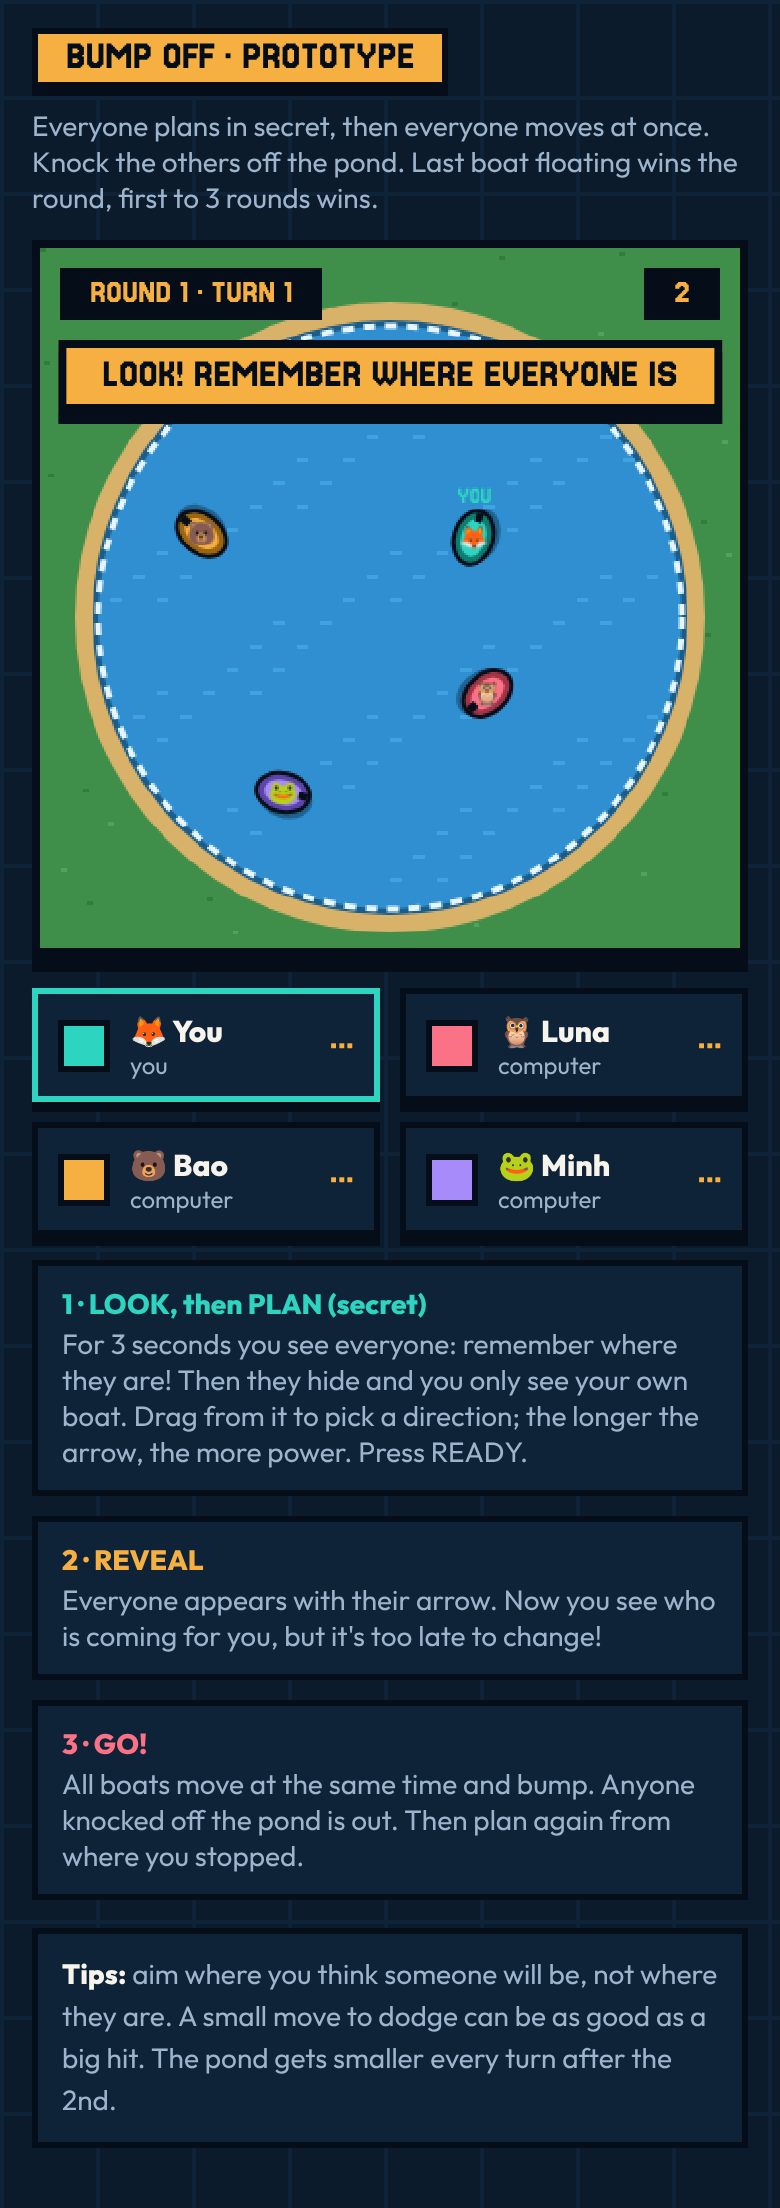
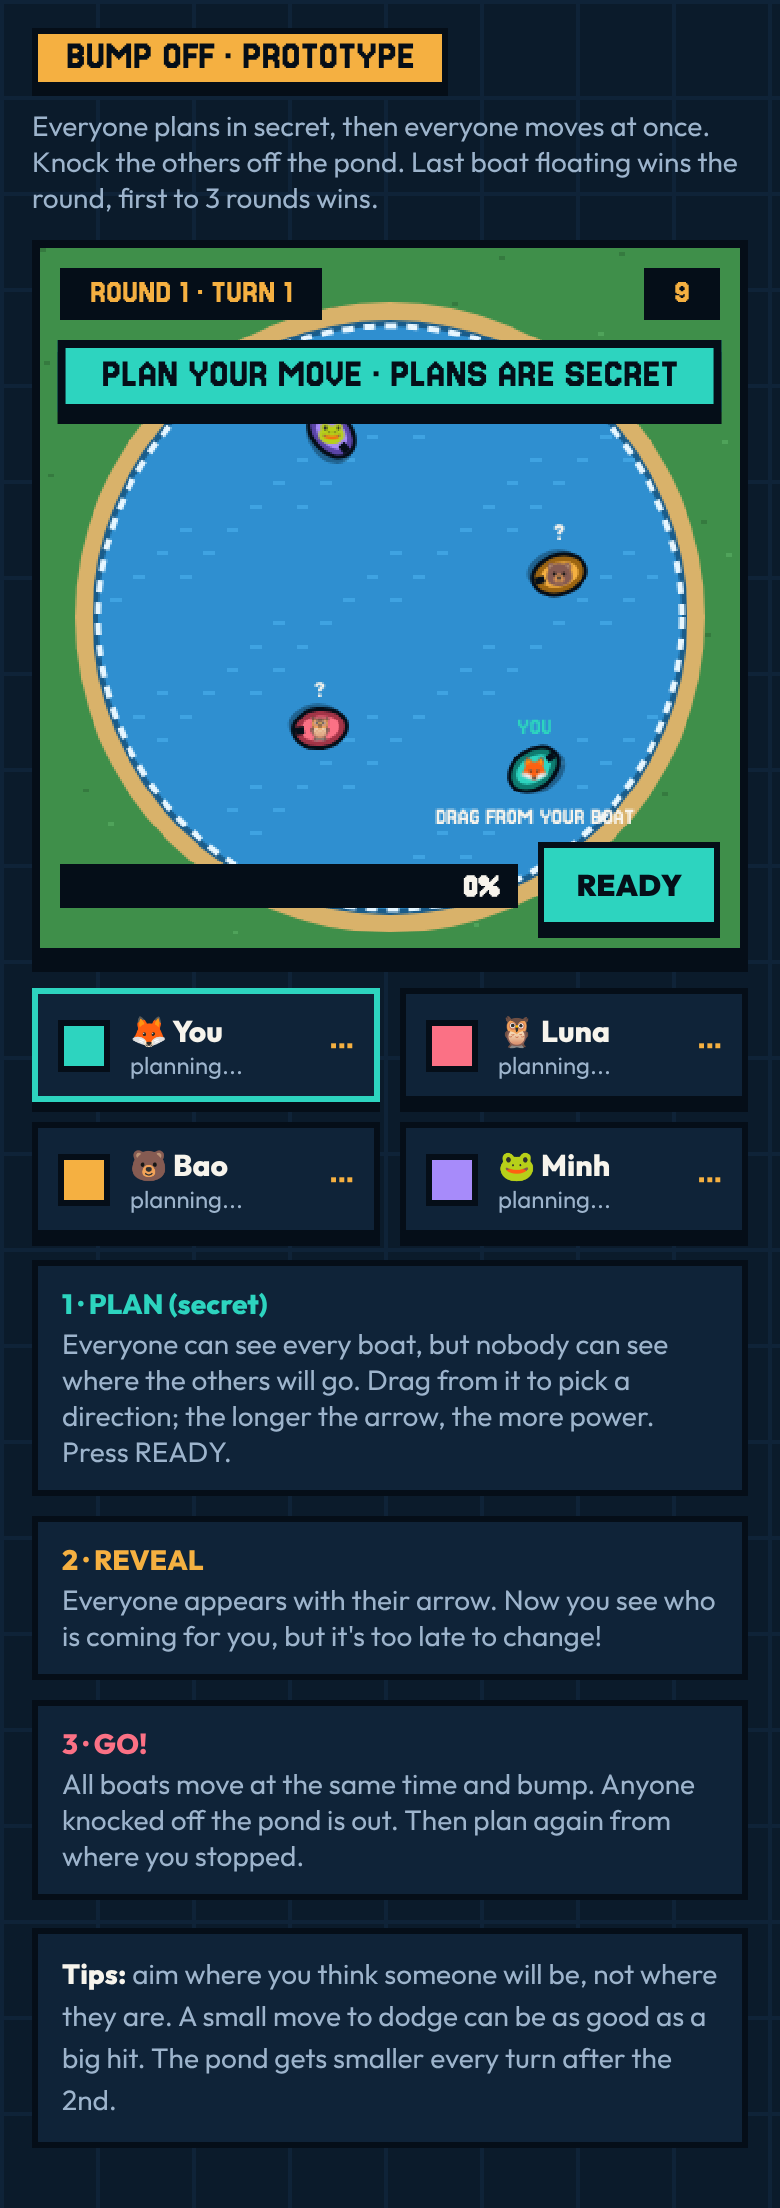
Bump Off prototype: boats always visible, only the plans are secret
Claude-Session: https://claude.ai/code/session_01NYAz1J5wa1KE5GuxFTgbc4

diff --git a/prototypes/round8/bump-off.html b/prototypes/round8/bump-off.html
@@ -57,8 +57,8 @@ canvas.aim { cursor: crosshair; }
     <div class="side" id="side"></div>
   </div>
   <div class="steps">
-    <div class="s1"><b>1 · LOOK, then PLAN (secret)</b>For 3 seconds you see everyone: remember where they are! Then they hide and you only see your own boat. Drag from it to pick a direction; the longer the arrow, the more power. Press READY.</div>
-    <div class="s2"><b>2 · REVEAL</b>Everyone appears with their arrow. Now you see who is coming for you, but it's too late to change!</div>
+    <div class="s1"><b>1 · PLAN (secret)</b>Everyone can see every boat, but nobody can see where the others will go. Drag from it to pick a direction; the longer the arrow, the more power. Press READY.</div>
+    <div class="s2"><b>2 · REVEAL</b>Everyone's arrows appear at once. Now you see who is coming for you, but it's too late to change!</div>
     <div class="s3"><b>3 · GO!</b>All boats move at the same time and bump. Anyone knocked off the pond is out. Then plan again from where you stopped.</div>
   </div>
   <div class="help"><b>Tips:</b> aim where you think someone will be, not where they are. A small move to dodge can be as good as a big hit. The pond gets smaller every turn after the 2nd.</div>
@@ -87,7 +87,7 @@ function newRound() {
     while (tries < 200 && boats.some((b) => Math.hypot(b.x - x, b.y - y) < 60));
     boats.push({ p, x, y, vx: 0, vy: 0, ang: Math.random() * 6.28, alive: true, sink: 9, plan: null, ready: false, readyAt: 0 });
   }
-  R = Rgoal = R0; turn = 1; parts = []; $('over').classList.remove('on'); startLook();
+  R = Rgoal = R0; turn = 1; parts = []; $('over').classList.remove('on'); startSetup();
 }
 const LOOK_SECS = 3;
 function startLook() {
@@ -99,7 +99,7 @@ function startSetup() {
   phase = 'setup'; phaseT = 0; drag = null;
   for (const b of boats) { b.plan = null; b.ready = !b.alive; b.readyAt = 1.5 + Math.random() * 6; }
   me().plan = { ang: me().ang, pow: 0 };
-  setPhase('setup', 'THEY\'RE HIDDEN · PLAN YOUR MOVE'); $('bottom').style.display = 'flex'; $('ready').disabled = false; $('ready').textContent = 'READY';
+  setPhase('setup', 'PLAN YOUR MOVE · PLANS ARE SECRET'); $('bottom').style.display = 'flex'; $('ready').disabled = false; $('ready').textContent = 'READY';
   $('round').textContent = `ROUND ${round} · TURN ${turn}`; cv.classList.add('aim'); drawSide(); showPow();
 }
 const me = () => boats.find((b) => b.p.me);
@@ -185,7 +185,7 @@ function endTurn() {
   const live = boats.filter((b) => b.alive);
   if (live.length <= 1) return endRound(live[0]);
   turn++; if (turn > 2) Rgoal = Math.max(70, Rgoal * 0.9);           // the pond shrinks a little every turn after the 2nd
-  phase = 'wait'; setTimeout(() => { if (phase === 'wait') startLook(); }, 600);
+  phase = 'wait'; setTimeout(() => { if (phase === 'wait') startSetup(); }, 600);
 }
 function endRound(w) {
   phase = 'end'; setPhase('', ''); $('bottom').style.display = 'none'; if (w) w.p.wins++;
@@ -219,9 +219,7 @@ function draw(now) {
   for (const q of parts) { if (q.txt) { ctx.font = '16px "Jersey 15"'; ctx.textAlign = 'center'; ctx.fillStyle = '#050E18'; ctx.fillText(q.txt, q.x + 1, q.y + 1); ctx.fillStyle = q.txt === 'SPLASH!' ? '#BFE9FF' : '#F5B041'; ctx.fillText(q.txt, q.x, q.y); ctx.textAlign = 'left'; continue; } ctx.fillStyle = q.c; ctx.globalAlpha = Math.min(1, q.l * 2); ctx.fillRect(Math.round(q.x), Math.round(q.y), 2, 2); ctx.globalAlpha = 1; }
   const secret = phase === 'setup';
   // during the plan, the others are hidden: only a "?" ripple shows the pond is not empty
-  if (secret) { ctx.fillStyle = 'rgba(5,14,24,.35)'; ctx.beginPath(); ctx.arc(CX, CY, R, 0, 7); ctx.fill(); }
   for (const b of boats) {
-    if (secret && !b.p.me) continue;
     if (!b.alive) { if (b.sink < 1.2) { ctx.globalAlpha = 1 - b.sink / 1.2; drawBoat(b, 1 - b.sink * 0.5); ctx.globalAlpha = 1; } continue; }
     if ((phase === 'reveal') && b.plan && b.plan.pow > 0.02) arrow(b, b.p.col, true);
     drawBoat(b, 1);
@@ -230,8 +228,9 @@ function draw(now) {
   if (secret && m.alive) {
     if (m.plan && m.plan.pow > 0.02) arrow(m, '#F7F4EC', false);
     else { ctx.fillStyle = '#F7F4EC'; ctx.font = '13px "Jersey 15"'; ctx.textAlign = 'center'; ctx.fillText('DRAG FROM YOUR BOAT', m.x, m.y + RAD + 16); ctx.textAlign = 'left'; }
-    ctx.fillStyle = 'rgba(247,244,236,.5)'; ctx.font = '22px "Jersey 15"'; ctx.textAlign = 'center';
-    const n = boats.filter((b) => b.alive && !b.p.me).length; for (let k = 0; k < n; k++) { const a = tt * 0.4 + k * 2.1, r = R * 0.55; ctx.fillText('?', CX + Math.cos(a) * r, CY + Math.sin(a) * r * 0.8); }
+    // the others are planning too: a little "?" over each boat until the reveal
+    ctx.font = '14px "Jersey 15"'; ctx.textAlign = 'center';
+    for (const b of boats) if (b.alive && !b.p.me) { ctx.fillStyle = b.ready ? '#34D399' : '#F7F4EC'; ctx.fillText(b.ready ? '✓' : '?', b.x, b.y - RAD - 5 + Math.sin(tt * 4 + b.x) * 1.5); }
     ctx.textAlign = 'left';
   }
   if (m.alive) { ctx.fillStyle = '#2DD4BF'; ctx.font = '13px "Jersey 15"'; ctx.textAlign = 'center'; ctx.fillText('YOU', m.x, m.y - RAD - 6); ctx.textAlign = 'left'; }
